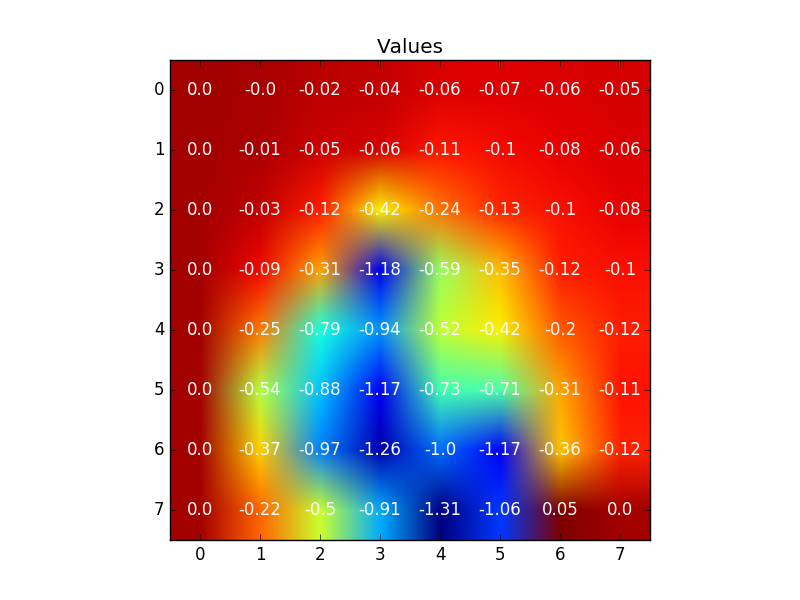
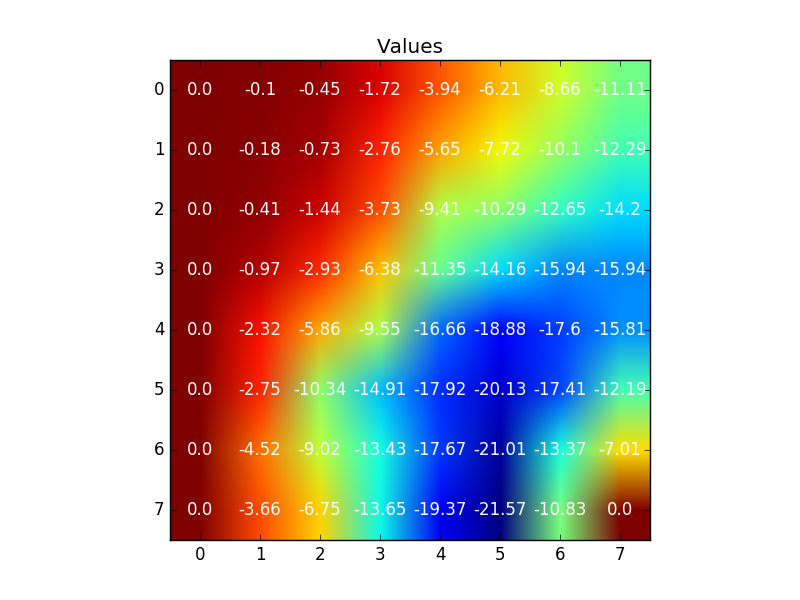
Done with all coding. Added final images used for writeup. Not including bonus. \

diff --git a/robostats/hw4_files/rl.py b/robostats/hw4_files/rl.py
@@ -132,26 +132,22 @@ if __name__ == "__main__":
   env = gridworld.GridWorld(map_name='8x8')
 
   # Play around with these values if you want!
-  gamma = 0.9
+  gamma = 1.06
   alpha = 0.05
   n = 10
   
   # Q3.2.1
   V_vi, n_iter = value_iteration(env, gamma)
-  print V_vi
-
-  #visVals(V_vi, 8, 8)
+  visVals(V_vi, 8, 8)
 
   policy = policy_from_value_function(env, V_vi, gamma)
-  print policy
-  #visVals(policy, 8, 8)
+  visVals(policy, 8, 8)
 
   # Q3.2.2: BONUS
   # V_pi, n_iter = policy_iteration(env, gamma)
 
   # Q3.2.3
   V_td = td_zero(env, gamma, policy, alpha)
-  print V_td
   visVals(V_td, 8, 8)
 
 #V_vi:

diff --git a/robostats/hw4_files/irl.py b/robostats/hw4_files/irl.py
@@ -71,7 +71,7 @@ if __name__ == "__main__":
   env = gridworld.GridWorld(map_name='8x8')
 
   # Generate policy from Q3.2.1
-  gamma = 0.9
+  gamma = 0.75
   Vs, n_iter = rl.value_iteration(env, gamma)
   policy = rl.policy_from_value_function(env, Vs, gamma)
 
@@ -82,6 +82,8 @@ if __name__ == "__main__":
   R_max = 1
   l1 = 0.8
   R = irl_lp(policy, T, gamma, R_max, l1)
+  visVals(R, 8, 8)
+   
 
   # You can test out your R by re-running VI with your new rewards as follows:
   env_irl = gridworld.GridWorld(map_name='8x8', R=R)
